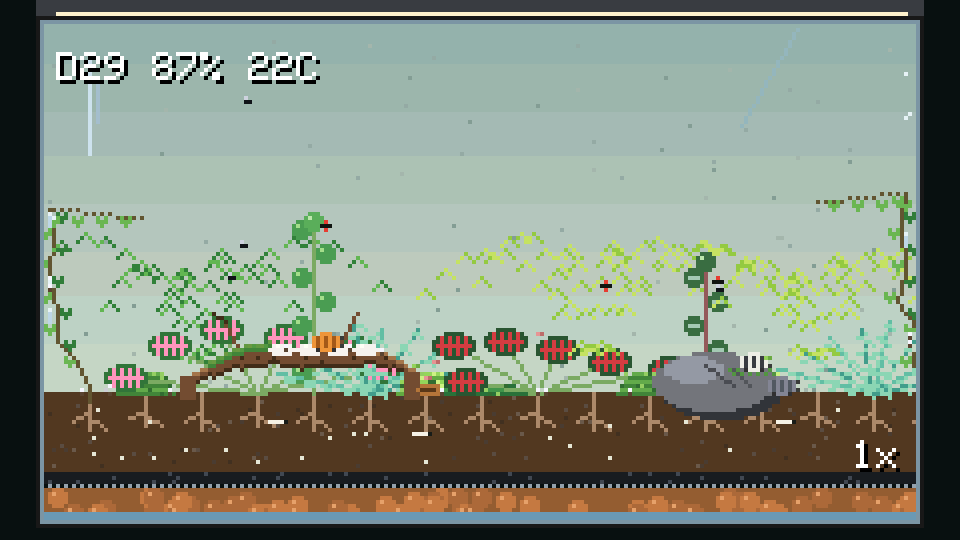
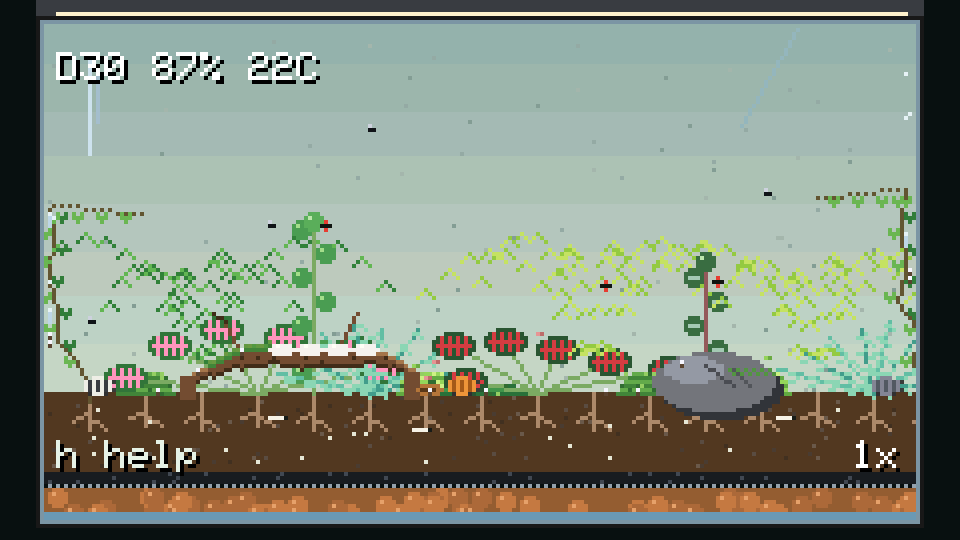
Add on-device help (H) and how-to-play docs
- H opens a 3-page help in small type (keys, how to play, sensors +
  journal); pages flip with , / ; . and H returns to the previous page
- help text lives in src/help_text.h, mirrored in the README with screenshots
- prebuilt-firmware section in the README
- debug fast-forward no longer logs a fake "away" journal entry

Claude-Session: https://claude.ai/code/session_018VKhnu3aNAAvGjSRCcmGuN

diff --git a/src/view.cpp b/src/view.cpp
@@ -2,6 +2,7 @@
 
 #include <math.h>
 
+#include "help_text.h"
 #include "scene.h"
 
 using namespace terra;
@@ -60,6 +61,8 @@ void drawJarPage(const World& w, const State& st, float t) {
     }
     cv.setTextDatum(bottom_right);
     hudText(kJarR - 4, kJarB - 12, st.speedLabel, rgb(255, 255, 255));
+    cv.setTextDatum(bottom_left);
+    hudText(kJarL + 4, kJarB - 12, "h help", rgb(230, 240, 230));
     cv.setTextDatum(top_left);
 }
 
@@ -140,6 +143,31 @@ void drawJournal(const World& w, const State& st) {
     }
 }
 
+void drawHelp(const State& st) {
+    cv.fillRect(0, 0, W, H, rgb(14, 16, 22));
+    cv.fillRect(0, 0, W, 14, rgb(24, 40, 60));
+    cv.setTextSize(1);
+    cv.setTextDatum(top_left);
+    cv.setTextColor(rgb(190, 225, 255));
+    char b[48];
+    snprintf(b, sizeof b, "HELP %d/%d  %s", st.helpPage + 1, help::kPages, help::kTitles[st.helpPage]);
+    cv.drawString(b, 4, 3);
+    cv.setTextDatum(top_right);
+    cv.setTextColor(rgb(130, 160, 190));
+    cv.drawString("h close", W - 4, 3);
+    cv.setTextDatum(top_left);
+    for (int i = 0; i < help::kMaxLines; i++) {
+        const char* l = help::kLines[st.helpPage][i];
+        if (!l || !l[0]) continue;
+        cv.setTextColor(l[0] == ' ' ? rgb(170, 190, 175) : rgb(225, 235, 225));
+        cv.drawString(l, 4, 18 + i * 9);
+    }
+    cv.setTextColor(rgb(110, 130, 150));
+    cv.setTextDatum(bottom_left);
+    cv.drawString(", / or ; .  = other help page", 4, H - 2);
+    cv.setTextDatum(top_left);
+}
+
 void drawSignals(const World& w, const State& st, const Signals& s) {
     cv.fillRect(0, 0, W, H, rgb(8, 12, 22));
     header("SIGNALS", w);
@@ -182,6 +210,7 @@ void draw(const World& w, const State& st, const Signals& sg) {
         case PAGE_SUMMARY: drawSummary(w); break;
         case PAGE_JOURNAL: drawJournal(w, st); break;
         case PAGE_SIGNALS: drawSignals(w, st, sg); break;
+        case PAGE_HELP: drawHelp(st); break;
         default: break;
     }
     if (st.toast[0] && millis() < st.toastUntil) {

diff --git a/src/main.cpp b/src/main.cpp
@@ -4,6 +4,7 @@
 #include <M5Cardputer.h>
 #include <Preferences.h>
 
+#include "help_text.h"
 #include "signals.h"
 #include "terrarium.h"
 #include "view.h"
@@ -92,6 +93,18 @@ void toast(const char* s) {
 
 void handleKey(char c) {
     lastKeyMs = millis();
+    if (c == 'h') {  // help toggles from anywhere
+        if (vs.page == view::PAGE_HELP) vs.page = vs.helpReturn;
+        else { vs.helpReturn = vs.page; vs.page = view::PAGE_HELP; vs.helpPage = 0; }
+        return;
+    }
+    if (vs.page == view::PAGE_HELP) {  // in help: only paging and leaving; nothing acts on the tank
+        int n = help::kPages;
+        if (c == ',' || c == ';') vs.helpPage = (vs.helpPage + n - 1) % n;
+        else if (c == '/' || c == '.') vs.helpPage = (vs.helpPage + 1) % n;
+        else if (c >= '1' && c <= '4') vs.page = (view::Page)(c - '1');
+        return;
+    }
     switch (c) {
         case '1': vs.page = view::PAGE_JAR; break;
         case '2': vs.page = view::PAGE_SUMMARY; break;
@@ -211,7 +224,7 @@ void handleSerialLine(String l) {
     switch (c) {
         case 'h':
             Serial.println("s status | j journal | P screenshot | k<keys> inject keys | w scan now | f speed | v save\n"
-                           "x<days> fast-forward | z<seed> new jar | T<HHMM> set clock | o open/wake screen | G<n> show page n");
+                           "x<days> fast-forward | z<seed> new jar | T<HHMM> set clock | o open/wake screen | G<n> show page n\n(keys: kh opens the on-device help)");
             break;
         case 's': printStatus(); break;
         case 'j': printJournal(); break;
@@ -266,6 +279,7 @@ void setup() {
     lastStepMs = millis();
     lastKeyMs = millis();
     vs.speedLabel = kSpeedLabels[0];
+    toast("Press H for help");
     Serial.printf("[boot] terrarium up, heap free=%lu big=%lu frac=%.3f\n", (unsigned long)ESP.getFreeHeap(),
                   (unsigned long)heap_caps_get_largest_free_block(MALLOC_CAP_8BIT), clockFrac());
 }

diff --git a/src/help_text.h b/src/help_text.h
@@ -1,0 +1,57 @@
+// On-device help (press H). One place for every key and how to play.
+// Small 6x8 font: keep each line <= 38 characters.
+#pragma once
+
+namespace help {
+
+constexpr int kPages = 3;
+constexpr int kMaxLines = 12;
+
+const char* const kTitles[kPages] = {"KEYS", "HOW TO PLAY", "SENSORS+JOURNAL"};
+
+const char* const kLines[kPages][kMaxLines] = {
+    {
+        "1 Tank 2 Summary 3 Journal 4 Signals",
+        ",  /      previous / next page",
+        ";  .      scroll Journal / Help",
+        "m         mist: humidity + soil up",
+        "s         plant a seed (emptiest slot)",
+        "p         prune the tallest plant",
+        "l         grow light on for some hours",
+        "r         scan WiFi + BLE right now",
+        "f         speed 1x 60x 600x 3600x",
+        "[  ]      clock -1h / +1h (no RTC)",
+        "0  0      new tank (press twice)",
+        "h         open / close this help",
+    },
+    {
+        "A sealed tank mostly looks after",
+        "itself. You only nudge it.",
+        "",
+        "Tank: plants, bugs, day and night.",
+        "Summary: who is thriving - a bar,",
+        "  an arrow, a 30-day line each.",
+        "Journal: what happened, and when.",
+        "Mist when the Journal says DRY or",
+        "  plants look droopy. Don't flood.",
+        "Seed when plants look sparse. Prune",
+        "  when crowded: cuttings feed the",
+        "  isopods and springtails.",
+    },
+    {
+        "Shake it, talk to it, walk around:",
+        "the sensors add tiny random nudges.",
+        "WiFi + Bluetooth traffic counts too.",
+        "Nothing can wipe the tank out.",
+        "",
+        "Journal words:",
+        "Tremor - you shook it",
+        "Radio storm - WiFi/BLE got busy",
+        "Cold / warm / dry spell - weather",
+        "Boomed / crashed / recovering -",
+        "  a population swung",
+        "f speeds time up to watch it grow.",
+    },
+};
+
+}  // namespace help

diff --git a/src/view.h b/src/view.h
@@ -7,11 +7,14 @@
 #include "terrarium.h"
 
 namespace view {
-enum Page : uint8_t { PAGE_JAR, PAGE_SUMMARY, PAGE_JOURNAL, PAGE_SIGNALS, kPages };
+// PAGE_HELP is outside the ,/ page cycle: it is opened with H.
+enum Page : uint8_t { PAGE_JAR, PAGE_SUMMARY, PAGE_JOURNAL, PAGE_SIGNALS, kPages, PAGE_HELP = kPages };
 
 struct State {
     Page page = PAGE_JAR;
     int journalScroll = 0;
+    int helpPage = 0;
+    Page helpReturn = PAGE_JAR;  // where H closes back to
     uint8_t speed = 0;  // index into main's speed table, for the HUD
     const char* speedLabel = "1x";
     float dayFrac = 0;

diff --git a/README.md b/README.md
@@ -44,6 +44,7 @@ Every key is a single press.
 | `f` | Sim speed: 1x → 60x → 600x → 3600x |
 | `[` `]` | Trim the clock −/+ 1 hour (there is no RTC) |
 | `0` `0` | New tank (press twice within 3 s) |
+| `h` | Open / close the on-device help (`,` `/` flip its 3 pages) |
 
 - **Summary** — overall health, then a bar, trend arrow and 30-day sparkline per species.
 - **Journal** — the last 32 events: blooms, crashes and recoveries, first gnats, cold/warm/dry
@@ -52,6 +53,33 @@ Every key is a single press.
 
 The screen dims after 30 s idle and turns off after 3 min; the tank keeps living. The first key
 press after it turns off only wakes it.
+
+## How to play
+
+The on-device help (`h`) has the same text, in small type:
+
+| Keys | How to play | Sensors + journal |
+|---|---|---|
+| ![Help: keys](docs/help-keys.png) | ![Help: how to play](docs/help-play.png) | ![Help: sensors and journal](docs/help-sensors.png) |
+
+A sealed tank mostly looks after itself; you only nudge it.
+
+- **Watch.** *Tank* shows the plants, bugs, and day/night. *Summary* shows who is thriving: a bar,
+  a trend arrow and a 30-day line per species, plus an overall health %. *Journal* records what
+  happened and when.
+- **Mist** (`m`) when the Journal says a dry spell hit or the plants look droopy. Don't flood it —
+  wet soil is slow to dry.
+- **Seed** (`s`) when plants look sparse. **Prune** (`p`) when crowded; the cuttings become
+  detritus that feeds the isopods and springtails.
+- **Grow light** (`l`) brightens the tank for a few hours, even at night. The built-in light
+  already follows the day/night cycle, so you rarely need it.
+- **Pests** (aphids, fungus gnats) rise and fall on their own — the ladybug and spider catch up.
+  There is nothing to "win": no species can be wiped out.
+- **Shake it, talk to it, walk around.** The IMU, microphone and the WiFi/Bluetooth traffic around
+  you add tiny random nudges. Journal words: *Tremor* = you shook it, *Radio storm* = the
+  WiFi/BLE air got busy, *cold / warm / dry spell* = rare weather, *boomed / crashed / recovering*
+  = a population swung.
+- **`f`** speeds time up (60x, 600x, 3600x) so you can watch days pass.
 
 ## How the sensors matter
 
@@ -108,6 +136,23 @@ make test      # ~2 s, prints per-species min/mean/max and PASS/FAIL
 - The keyboard's `isChange()` is a destructive latch, so it is polled on every loop, releases
   included.
 
+## Prebuilt firmware
+
+Each [release](../../releases) carries two images, both built from this source:
+
+| File | Flash at | Use |
+|---|---|---|
+| `terrarium-adv-vX.Y.Z-factory.bin` | `0x0` | bootloader + partition table + app, one step; **replaces the whole layout** (including an M5Launcher install) |
+| `terrarium-adv-vX.Y.Z-app.bin` | `0x10000` | app only, when this project's partition table is already on the board (keeps saved tank) |
+
+```sh
+# native USB: no download-mode button needed. --no-stub matters on this board.
+esptool.py --chip esp32s3 --no-stub -p /dev/cu.usbmodemXXXX --before default_reset --after hard_reset \
+  write_flash 0x0 terrarium-adv-v1.0.0-factory.bin
+```
+
+Check the download against `SHA256SUMS` first. The images contain no credentials or keys.
+
 ## Build and flash
 
 Requires [PlatformIO](https://platformio.org/).
@@ -149,7 +194,7 @@ mode) — `tools/ser.py` does this. It needs pyserial, which PlatformIO's Python
 | `x<days>` | fast-forward the sim (debug; not logged as an absence) |
 | `z<seed>` | new tank with a seed |
 | `T<HHMM>` | set the clock |
-| `G<n>` | show page *n* |
+| `G<n>` | show page *n* (`kh` opens the help) |
 
 The screenshots in this README were taken this way.
 
@@ -160,7 +205,8 @@ sim/terrarium.{h,cpp}   portable simulation core (host-tested)
 src/main.cpp            loop, keys, serial channel, save/restore, sim clock
 src/signals.{h,cpp}     sensors, WiFi/BLE bursts, entropy
 src/scene.cpp           the tank drawing
-src/view.{h,cpp}        Summary / Journal / Signals pages, HUD
+src/view.{h,cpp}        Summary / Journal / Signals / Help pages, HUD
+src/help_text.h         every key and the how-to-play text (single source for the on-device help)
 tools/harness.cpp       stability gate
 tools/ser.py            serial helper + screenshots
 tools/flash.sh          app-only flash
